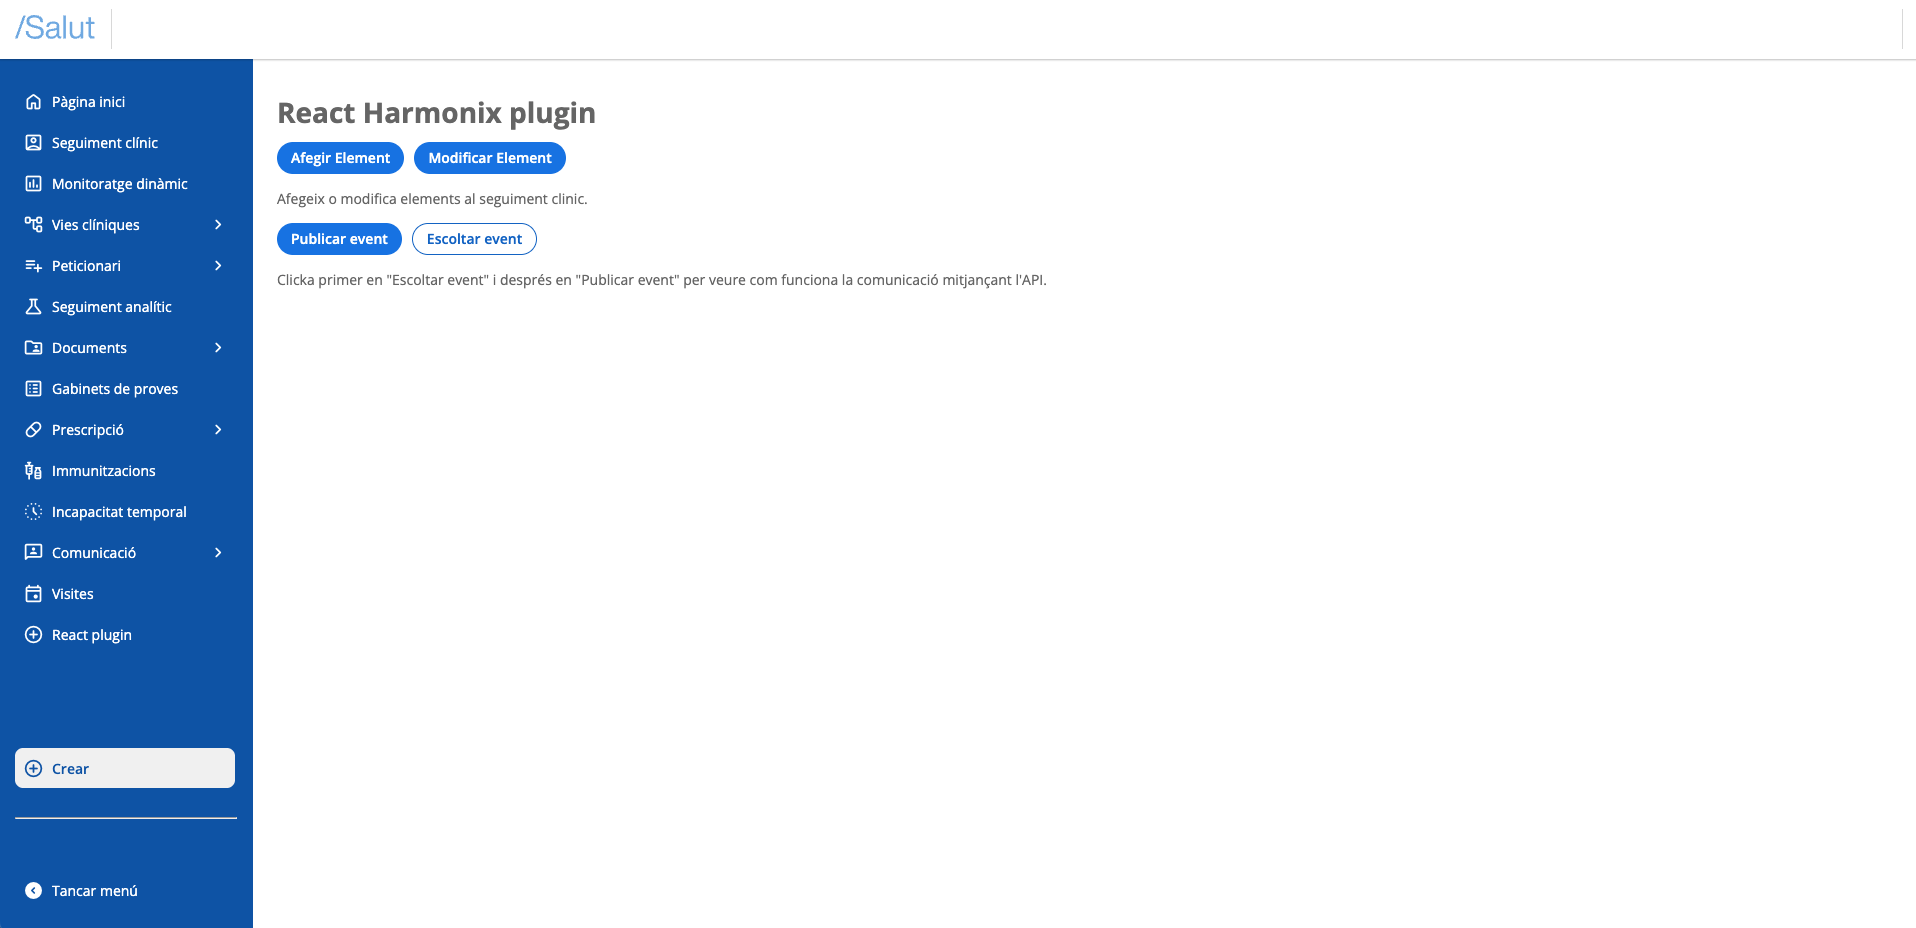
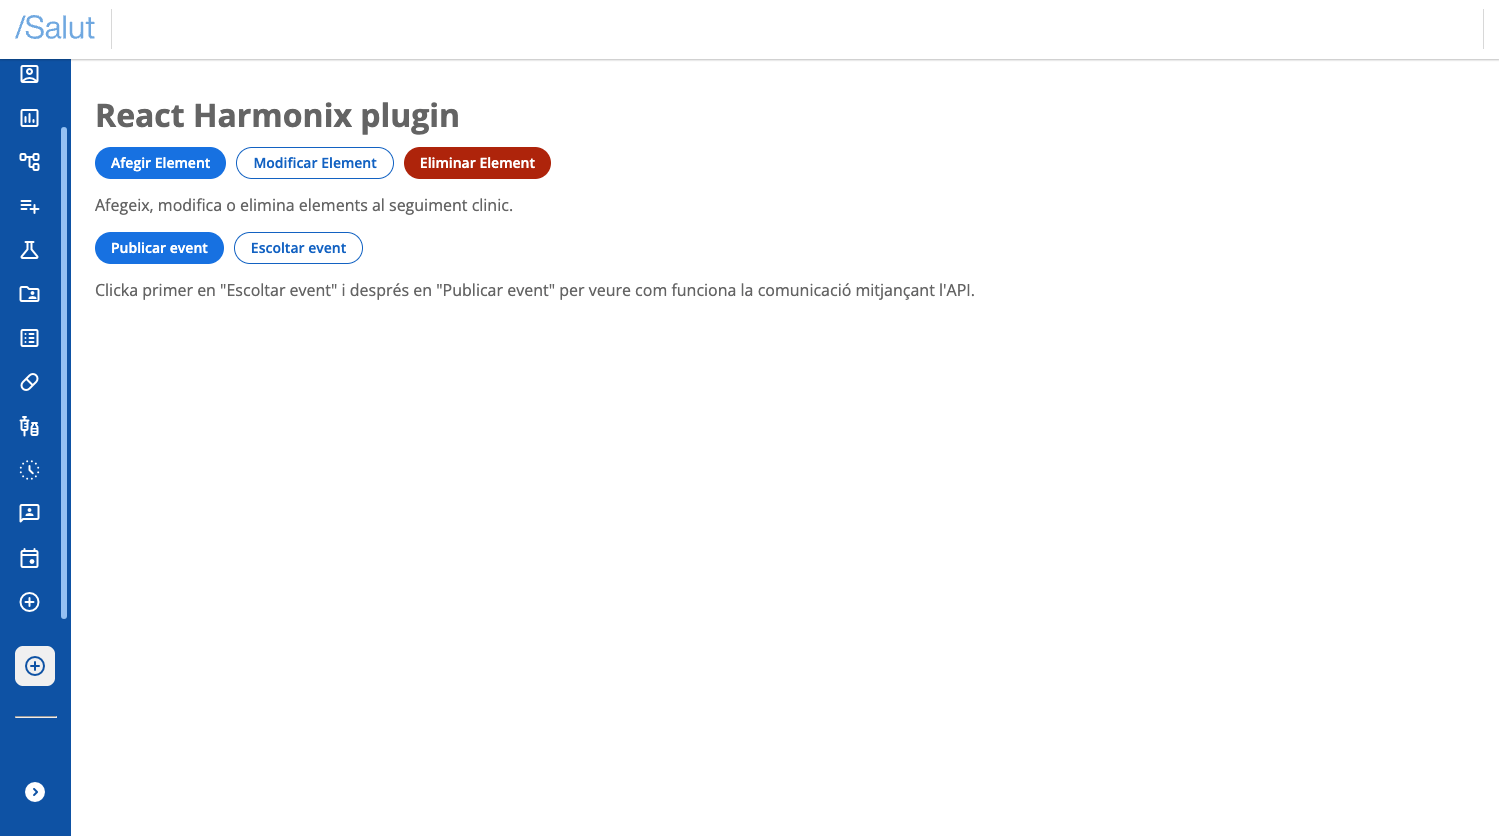
clinical monitoring plugin info added

Changed region(s): [[0.0, 0.0, 0.6444, 1.0]]

diff --git a/docs/create-plugin/react-configuracio/crear-un-plugin.md b/docs/create-plugin/react-configuracio/crear-un-plugin.md
@@ -503,6 +503,10 @@ Arribats a aquest punt, en el navegador veurem el següent:
 
 ![](../../../static/img/pluginReact.png)
 
+En aquest punt, si es necessita integrar-se amb qualsevol part del plugin de Seguiment Clínic, es requerirà afegir el plugin en el Sandbox. Per incloure'l, s'ha d'afegir la carpeta del plugin i afegir-lo també a l'arxiu `plugins.ts`. Aquesta carpeta es podrà obtenir directament del repositori de demo que es mostra al final. 
+D'aquesta manera, la vista que es visualitzaria si s'incorpora el plugin de Seguiment Clínic seria la següent:
+
+![](../../../static/img/pluginReact1.png)
 
 
 I quan fem clic sobre el botó "React plugin" del menú, veurem el nostre plugin funcionant i mostrat a la regió principal:
